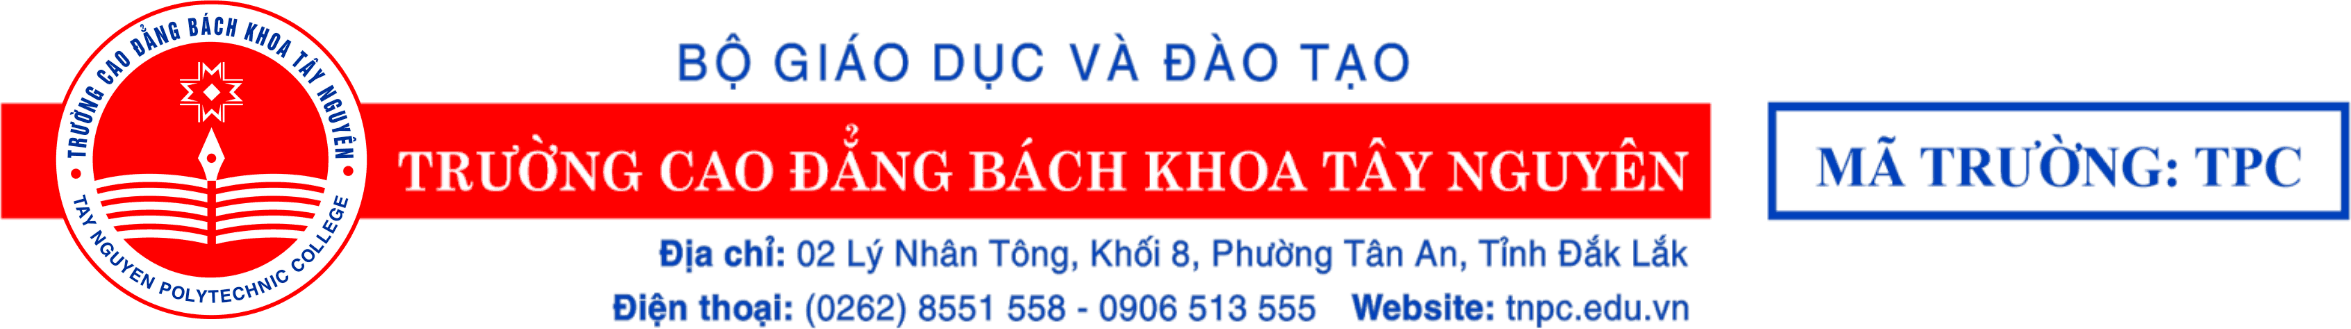
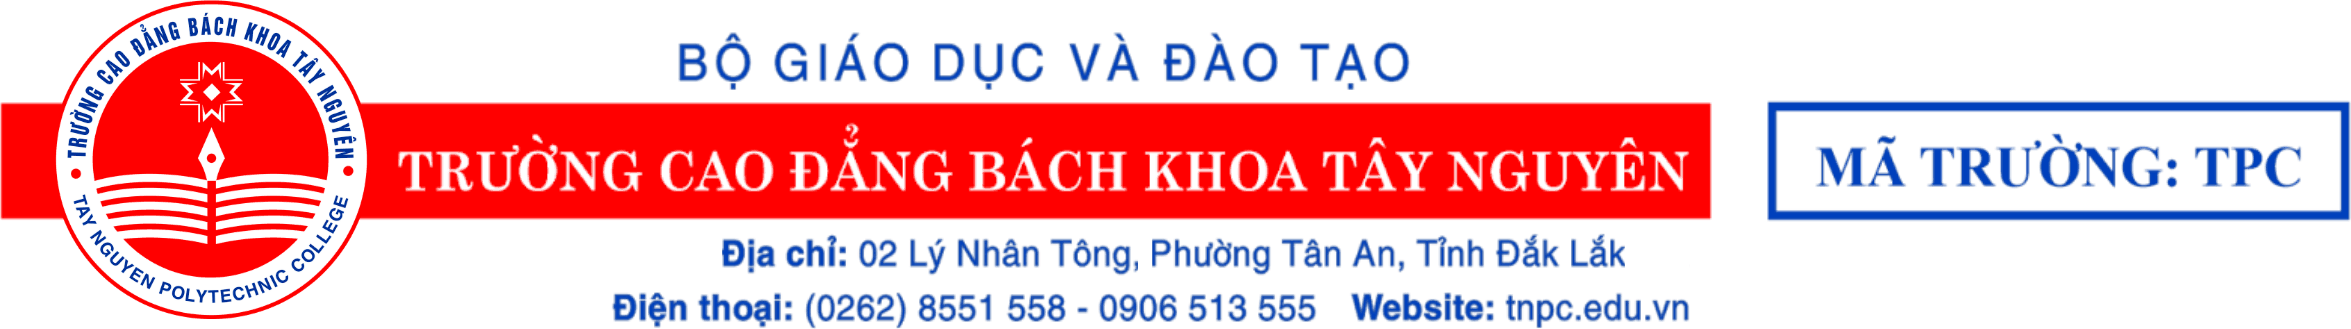
feat(admission): 4 chỉnh nội dung giấy báo + bỏ "Khối 8" khỏi địa chỉ
1. Tên ngành dài không còn rớt dòng. Ngành nay đứng riêng một dòng, trình độ +
   hệ đào tạo gộp dòng dưới. Nới cột chỉ đẩy ngưỡng đi chứ không bỏ được vấn
   đề — tên ngành là dữ liệu, dài bao nhiêu không kiểm soát được; "Công nghệ
   thông tin (ứng dụng phần mềm)" là ca thật đang có 16 hồ sơ trên production.
   Tổng số dòng không đổi nên không ăn thêm chỗ.

2. Dòng hỗ trợ thêm cán bộ phụ trách kèm số điện thoại, GIỮ hotline chung:
   officer nghỉ phép hay chuyển việc thì thí sinh vẫn còn đường dây gọi được.
   Lấy qua lead.assigned_officer_id chứ không qua trường denormalize
   assigned_officer_name (trường đó chỉ populate ở tầng response).
   Thiếu số điện thoại thì in mỗi tên, không để ngoặc rỗng — hiện có 168/355
   hồ sơ rơi vào ca này (3 officer chưa khai số), và một văn bản chính thức
   ghi "Cán bộ phụ trách: Nguyễn Văn A ()" đọc như lỗi phần mềm.

3. Địa chỉ chảy tiếp dòng "Địa điểm" thay vì xuống dòng riêng không nhãn.

4. Nội dung chuyển khoản mang MÃ HỒ SƠ thay số điện thoại thí sinh. Kế toán
   đối soát sao kê cần tra ngược ra đúng hồ sơ, mà số điện thoại có thể trùng
   giữa các thí sinh và không tra được trong danh mục hồ sơ. Hệ thống không có
   trường mã riêng — giao diện hiển thị "#334" và finance tra qua
   admission_profile_id — nên dùng đúng số đó với tiền tố HS để con số không
   bị đọc nhầm trên sao kê (ô Nội dung của ngân hàng loại bỏ ký tự #).

Bỏ "Khối 8" khỏi địa chỉ. Cụm này nằm ở HAI nơi: hằng số trong thân bài, và
[…]

Changed region(s): [[0.2795, 0.6991, 0.7142, 0.8207]]

diff --git a/Backend_FastAPI/app/services/admission_pdf_service.py b/Backend_FastAPI/app/services/admission_pdf_service.py
@@ -463,6 +463,25 @@ def _money_rows(rows: list[tuple[str, str]], st: dict) -> Table:
     return t
 
 
+def _officer_contact(data: dict) -> str:
+    """Phần " — Cán bộ phụ trách: Tên (SĐT)" nối sau hotline chung.
+
+    Hotline trường ĐƯỢC GIỮ (quyết định 20-07): officer nghỉ phép / chuyển việc
+    thì thí sinh vẫn còn một đường dây gọi được.
+
+    Thiếu SĐT thì chỉ in TÊN, không in ngoặc rỗng — tại thời điểm làm tính năng
+    có 168/355 hồ sơ mà officer chưa khai số trong hệ thống, và một tờ giấy
+    chính thức ghi "Cán bộ phụ trách: Nguyễn Văn A ()" đọc như lỗi phần mềm.
+    Không officer ⇒ không in gì thêm, dòng hotline vẫn đứng vững một mình.
+    """
+    name = _esc((data.get("officer_name") or "").strip())
+    if not name:
+        return "."
+    phone = _esc((data.get("officer_phone") or "").strip())
+    tail = f" ({phone})" if phone else ""
+    return f" — <b>Cán bộ phụ trách:</b> {name}{tail}."
+
+
 def _fee_lines(data: dict, st: dict) -> list[Any]:
     """Khối học phí — in MỨC CHUẨN của bảng thu Nhà trường.
 
@@ -561,12 +580,21 @@ def _build_body(data: dict, st: dict) -> list[Any]:
             st,
         ),
         Paragraph(f"Địa chỉ thường trú: {address}", st["body"]),
+        # Ngành đứng RIÊNG một dòng, trình độ + hệ gộp dòng dưới.
+        #
+        # Trước đây ngành dùng chung dòng với trình độ (60% bề rộng), nên tên
+        # dài như "Công nghệ thông tin (ứng dụng phần mềm)" bị đẩy xuống dòng
+        # thứ hai của ô trái và lệch hẳn khỏi lưới. Nới cột chỉ đẩy ngưỡng đi
+        # chứ không bỏ được — tên ngành là dữ liệu, dài bao nhiêu không kiểm
+        # soát được. Cho ngành nguyên một dòng thì bố cục ổn định với MỌI độ
+        # dài, và TỔNG SỐ DÒNG KHÔNG ĐỔI (trước: ngành+trình độ / hệ = 2 dòng;
+        # nay: ngành / trình độ+hệ = 2 dòng) nên không ăn thêm chỗ.
+        Paragraph(f"Đã trúng tuyển ngành: <b>{major}</b>", st["body"]),
         _two_col(
-            f"Đã trúng tuyển ngành: <b>{major}</b>",
             (f"Trình độ: <b>{degree}</b>" if degree else ""),
+            f"Hệ đào tạo: {offering}",
             st,
         ),
-        Paragraph(f"Hệ đào tạo: {offering}", st["body"]),
         Spacer(1, 1.2 * mm),
         Paragraph(
             "Để hoàn tất thủ tục nhập học, đề nghị thí sinh có mặt tại trường "
@@ -578,13 +606,16 @@ def _build_body(data: dict, st: dict) -> list[Any]:
             f"<b>{end_str}</b>.",
             st["indent"],
         ),
+        # Địa chỉ chảy TIẾP dòng địa điểm, không xuống dòng riêng: <br/> +
+        # thụt đầu dòng cũ tách nó thành một dòng lơ lửng không có nhãn.
         Paragraph(
-            f"<b>- Địa điểm:</b> {C.SCHOOL_NAME_TITLE}.<br/>"
-            f"&nbsp;&nbsp;&nbsp;{C.LOCATION_ADDRESS}",
+            f"<b>- Địa điểm:</b> {C.SCHOOL_NAME_TITLE}, {C.LOCATION_ADDRESS}",
             st["indent"],
         ),
         Paragraph(
-            f"<b>- Điện thoại hỗ trợ:</b> {C.SUPPORT_PHONE}.", st["indent"]
+            f"<b>- Điện thoại hỗ trợ:</b> {C.SUPPORT_PHONE}"
+            f"{_officer_contact(data)}",
+            st["indent"],
         ),
         Spacer(1, 1.2 * mm),
         Paragraph("Khi đến trường thí sinh vui lòng mang theo:", st["body"]),
@@ -615,9 +646,14 @@ def _build_body(data: dict, st: dict) -> list[Any]:
     # Nội dung CK: ngân hàng bỏ dấu + giới hạn độ dài, nên in đúng dạng
     # ASCII/rút gọn mà thí sinh sẽ gõ, thay vì tiếng Việt có dấu. Kết quả chỉ
     # gồm [a-zA-Z0-9 ] → an toàn XML theo cấu tạo.
+    # Nội dung CK mang MÃ HỒ SƠ, không phải số điện thoại: kế toán đối soát sao
+    # kê cần tra ngược ra đúng hồ sơ, mà số điện thoại có thể trùng giữa các
+    # thí sinh (anh em dùng chung số) và không tra được trong danh mục hồ sơ.
+    # Tiền tố "HS" để con số không bị đọc nhầm thành số khác trên sao kê.
+    profile_code = data.get("profile_code") or ""
     bank_note = _esc(
         to_bank_transfer_note(
-            f"{data.get('full_name') or ''} {data.get('phone') or ''} "
+            f"{data.get('full_name') or ''} {profile_code} "
             "nop hoc phi ky I",
             max_len=90,
         )

diff --git a/Backend_FastAPI/tests/unit/test_enrollment_letter_pdf.py b/Backend_FastAPI/tests/unit/test_enrollment_letter_pdf.py
@@ -56,6 +56,9 @@ def _base_data(**overrides):
         enrollment_start_date=datetime.date(2026, 7, 28),
         enrollment_end_date=datetime.date(2026, 8, 5),
         phone="0906123456",
+        officer_name="Trần Thị Tư Vấn",
+        officer_phone="0912345678",
+        profile_code="HS334",
     )
     d.update(overrides)
     return d
@@ -160,18 +163,80 @@ def test_degree_level_not_duplicated():
     assert "Cao đẳng Cao đẳng" not in text
 
 
-def test_bank_transfer_note_is_ascii_sanitized():
-    """The bank-transfer memo must be ASCII (diacritics stripped) so it matches
-    what a bank's Nội-dung field accepts — while the display name keeps its
-    accents."""
-    text = _text(
+def test_bank_transfer_note_carries_profile_code_not_phone():
+    """Nội dung CK mang MÃ HỒ SƠ, không phải số điện thoại.
+
+    Kế toán đối soát sao kê phải tra ngược ra đúng hồ sơ; số điện thoại có thể
+    trùng giữa các thí sinh (anh em dùng chung số) và không tra được trong danh
+    mục hồ sơ. Vẫn phải ASCII vì ô Nội dung của ngân hàng không nhận dấu.
+    """
+    text = _flat(
         pdf.render_enrollment_letter(
-            _base_data(full_name="Phạm Thái Hà", phone="0906123456")
+            _base_data(
+                full_name="Phạm Thái Hà", phone="0906123456", profile_code="HS407"
+            )
         )
     )
-    assert "nop hoc phi ky I" in text  # ASCII memo tail
-    assert "Pham Thai Ha 0906123456" in text  # diacritics stripped in the memo
-    assert "Phạm Thái Hà" in text  # display line still has accents
+    assert "nop hoc phi ky I" in text  # đuôi ASCII
+    assert "Pham Thai Ha HS407 nop hoc phi ky I" in text  # đã bỏ dấu + có mã
+    assert "0906123456" not in text, "số điện thoại thí sinh không được vào nội dung CK"
+    assert "Phạm Thái Hà" in text  # dòng hiển thị vẫn giữ dấu
+
+
+def test_support_line_keeps_hotline_and_adds_officer():
+    """Dòng hỗ trợ giữ hotline chung VÀ thêm cán bộ phụ trách.
+
+    Bỏ hotline thì officer nghỉ phép / chuyển việc là thí sinh mất đường dây.
+    """
+    text = _flat(pdf.render_enrollment_letter(_base_data()))
+    assert "0906 513 555" in text  # hotline chung
+    assert "Cán bộ phụ trách: Trần Thị Tư Vấn (0912345678)" in text
+
+
+def test_officer_without_phone_prints_name_only():
+    """Officer chưa khai SĐT ⇒ in mỗi TÊN, không để ngoặc rỗng.
+
+    Lúc làm tính năng có 168/355 hồ sơ rơi vào ca này; một văn bản chính thức
+    ghi 'Cán bộ phụ trách: Nguyễn Văn A ()' đọc như lỗi phần mềm.
+    """
+    text = _flat(pdf.render_enrollment_letter(_base_data(officer_phone="")))
+    assert "Cán bộ phụ trách: Trần Thị Tư Vấn" in text
+    assert "()" not in text
+
+
+def test_no_officer_leaves_the_hotline_standing_alone():
+    """Không có officer ⇒ dòng hotline vẫn đứng vững, không có đuôi lơ lửng."""
+    text = _flat(
+        pdf.render_enrollment_letter(_base_data(officer_name="", officer_phone=""))
+    )
+    assert "0906 513 555" in text
+    assert "Cán bộ phụ trách" not in text
+
+
+def test_location_address_stays_on_the_location_line():
+    """Địa chỉ chảy tiếp dòng "Địa điểm", không rơi xuống dòng riêng không nhãn."""
+    text = _flat(pdf.render_enrollment_letter(_base_data()))
+    assert "Địa điểm: Trường Cao đẳng Bách khoa Tây Nguyên, Số 02 Lý Nhân Tông" in text
+
+
+def test_long_major_name_does_not_share_its_line():
+    """Tên ngành dài phải có nguyên một dòng.
+
+    Dùng chung dòng với trình độ thì "Công nghệ thông tin (ứng dụng phần mềm)"
+    tràn sang dòng thứ hai của ô trái và lệch khỏi lưới. Trình độ + hệ đào tạo
+    xuống gộp một dòng nên tổng số dòng không đổi.
+    """
+    text = _flat(
+        pdf.render_enrollment_letter(
+            _base_data(
+                major_name="Công nghệ thông tin (ứng dụng phần mềm)",
+                degree_level="Trung cấp",
+            )
+        )
+    )
+    # Ngành đứng liền mạch, KHÔNG bị "Trình độ:" chen vào giữa.
+    assert "ngành: Công nghệ thông tin (ứng dụng phần mềm)" in text
+    assert "Trình độ: Trung cấp" in text and "Hệ đào tạo: Chính quy" in text
 
 
 def test_two_installments_print_their_own_due_dates():

diff --git a/Backend_FastAPI/app/services/enrollment_letter_service.py b/Backend_FastAPI/app/services/enrollment_letter_service.py
@@ -211,6 +211,30 @@ async def _resolve_admitted_major(db, profile, fee):
     return chosen[1], chosen[2], chosen[3], chosen[4]
 
 
+async def _resolve_officer(db, profile) -> tuple[str, str]:
+    """(tên, số điện thoại) officer đang phụ trách — cho dòng "Điện thoại hỗ
+    trợ" trên giấy.
+
+    Đi qua ``lead.assigned_officer_id`` chứ không qua trường denormalize
+    ``assigned_officer_name``: trường đó chỉ được populate ở tầng response, nên
+    rỗng khi service chạy độc lập (Celery, script).
+
+    KHÔNG chặn phát giấy khi thiếu — đây là thông tin liên hệ THÊM và hotline
+    chung vẫn được in. Trả chuỗi rỗng để renderer tự bỏ phần đó.
+    """
+    row = (
+        await db.execute(
+            select(models.User.full_name, models.User.phone_number)
+            .select_from(models.Lead)
+            .join(models.User, models.User.id == models.Lead.assigned_officer_id)
+            .where(models.Lead.id == profile.lead_id)
+        )
+    ).first()
+    if row is None:
+        return "", ""
+    return (row[0] or "").strip(), (row[1] or "").strip()
+
+
 def _vnd(amount) -> str:
     """9200000 → "9.200.000". Dấu chấm phân nhóm như cách viết tiền của VN —
     ``f"{n:,}"`` cho ra "9,200,000", đọc như số kiểu Anh ngay trong một thông
@@ -378,6 +402,7 @@ async def build_letter_data(db, profile) -> dict:
     schedule = _resolve_tuition_schedule(
         major_code, major_name, degree_level, fee, _total
     )
+    officer_name, officer_phone = await _resolve_officer(db, profile)
 
     return {
         "full_name": full_name,
@@ -431,6 +456,16 @@ async def build_letter_data(db, profile) -> dict:
         "signatory_title": C.SIGNATORY_TITLE,
         "signatory_name": C.SIGNATORY_NAME,
         "phone": (profile.phone or "").strip(),
+        # Cán bộ phụ trách in kèm hotline chung. Chụp vào snapshot vì officer
+        # có thể đổi sau khi giấy đã trao tay — bản in nói ai thì hồ sơ phải
+        # còn ghi đúng người đó.
+        "officer_name": officer_name,
+        "officer_phone": officer_phone,
+        # Mã hồ sơ dùng cho nội dung chuyển khoản. Đây là số định danh hồ sơ mà
+        # giao diện hiển thị dạng "#334" và finance tra ngược qua
+        # ``admission_profile_id``; tiền tố "HS" chỉ để con số không bị đọc
+        # nhầm trên sao kê ngân hàng.
+        "profile_code": f"HS{profile.id}",
     }
 
 

diff --git a/Backend_FastAPI/app/constants/enrollment_letter.py b/Backend_FastAPI/app/constants/enrollment_letter.py
@@ -23,7 +23,7 @@ SCHOOL_NAME = "TRƯỜNG CAO ĐẲNG BÁCH KHOA TÂY NGUYÊN"
 # Title-case form used inside body prose ("Trường ... trân trọng thông báo:").
 SCHOOL_NAME_TITLE = "Trường Cao đẳng Bách khoa Tây Nguyên"
 SCHOOL_CODE = "TPC"
-SCHOOL_ADDRESS = "02 Lý Nhân Tông, Khối 8, Phường Tân An, Tỉnh Đắk Lắk"
+SCHOOL_ADDRESS = "02 Lý Nhân Tông, Phường Tân An, Tỉnh Đắk Lắk"
 SCHOOL_PHONE = "(0262) 8551 558 - 0906 513 555"
 # Header shows the bare domain; the footer bar shows the full URL.
 SCHOOL_WEBSITE = "tnpc.edu.vn"
@@ -31,7 +31,7 @@ FOOTER_WEBSITE = "https://tnpc.edu.vn"
 
 # Enrollment location + support line shown in the body ("Địa điểm" / "Điện
 # thoại hỗ trợ").
-LOCATION_ADDRESS = "Số 02 Lý Nhân Tông, Khối 8, Phường Tân An, Tỉnh Đắk Lắk."
+LOCATION_ADDRESS = "Số 02 Lý Nhân Tông, Phường Tân An, Tỉnh Đắk Lắk."
 SUPPORT_PHONE = "0906 513 555"
 
 # School year label for the fee heading ("Học phí học kỳ I năm học ...").

diff --git a/Backend_FastAPI/app/models/enrollment_letter.py b/Backend_FastAPI/app/models/enrollment_letter.py
@@ -96,7 +96,8 @@ class EnrollmentLetter(Base):
     # second_installment · first_installment_due · second_installment_due ·
     # required_documents · early_enrollment_bonus · benefits · closing_note ·
     # bank_account_number · bank_account_name · bank_name · signatory_title ·
-    # signatory_name. Sau retention còn thêm ``_purged``.
+    # signatory_name · officer_name · officer_phone · profile_code.
+    # Sau retention còn thêm ``_purged``.
     data_snapshot: Mapped[dict] = mapped_column(
         JSONB,
         nullable=False,
